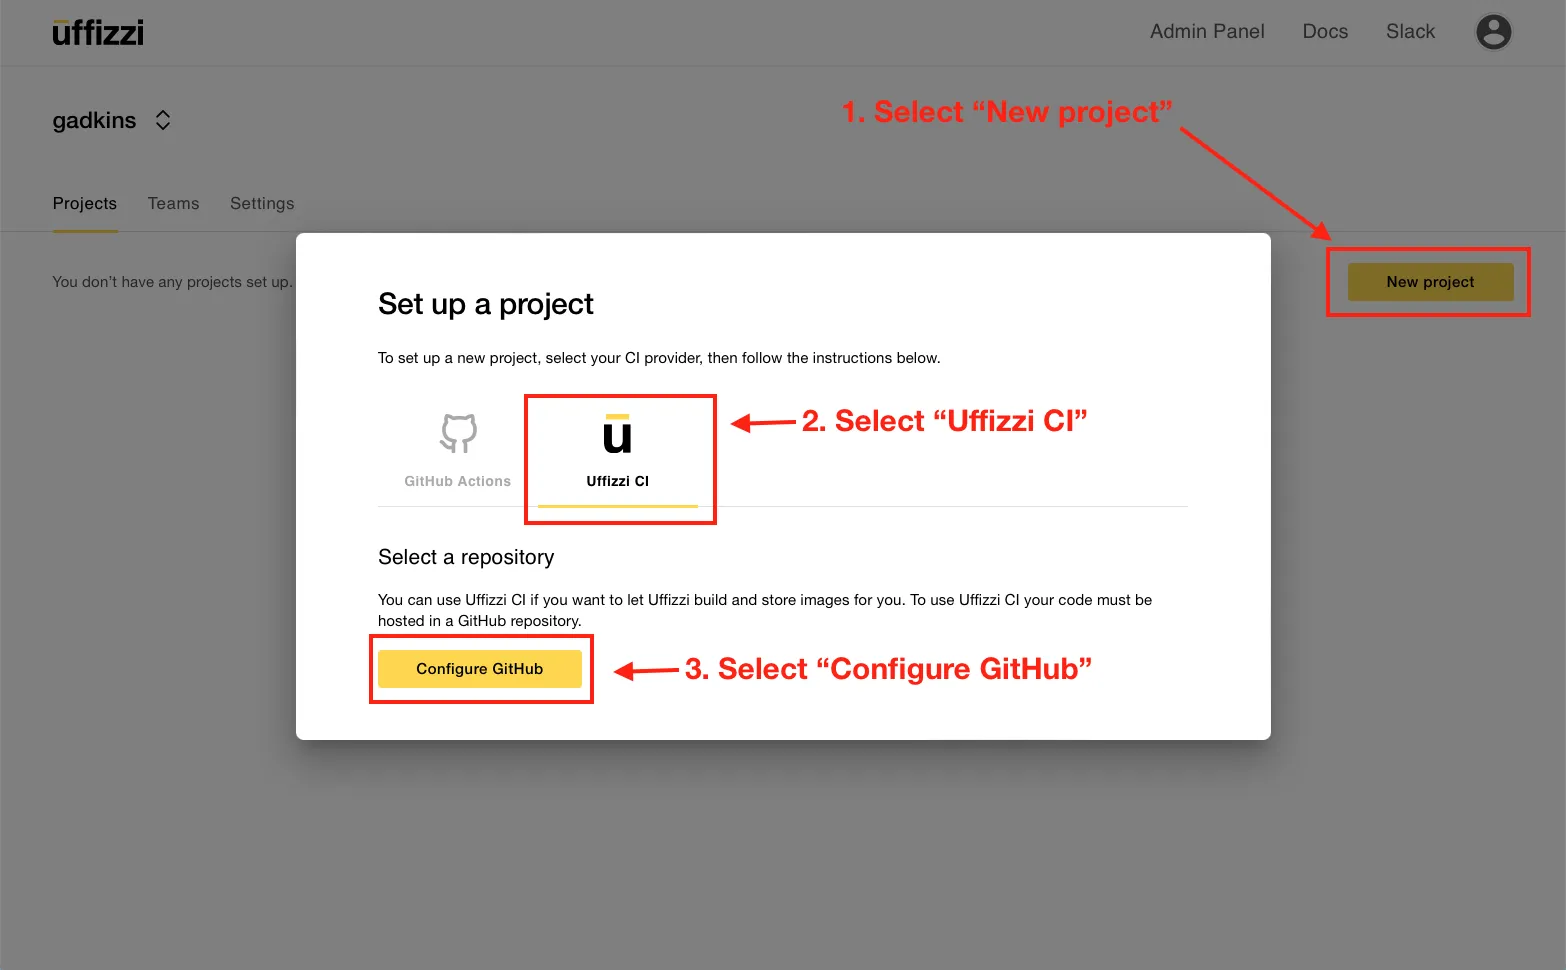
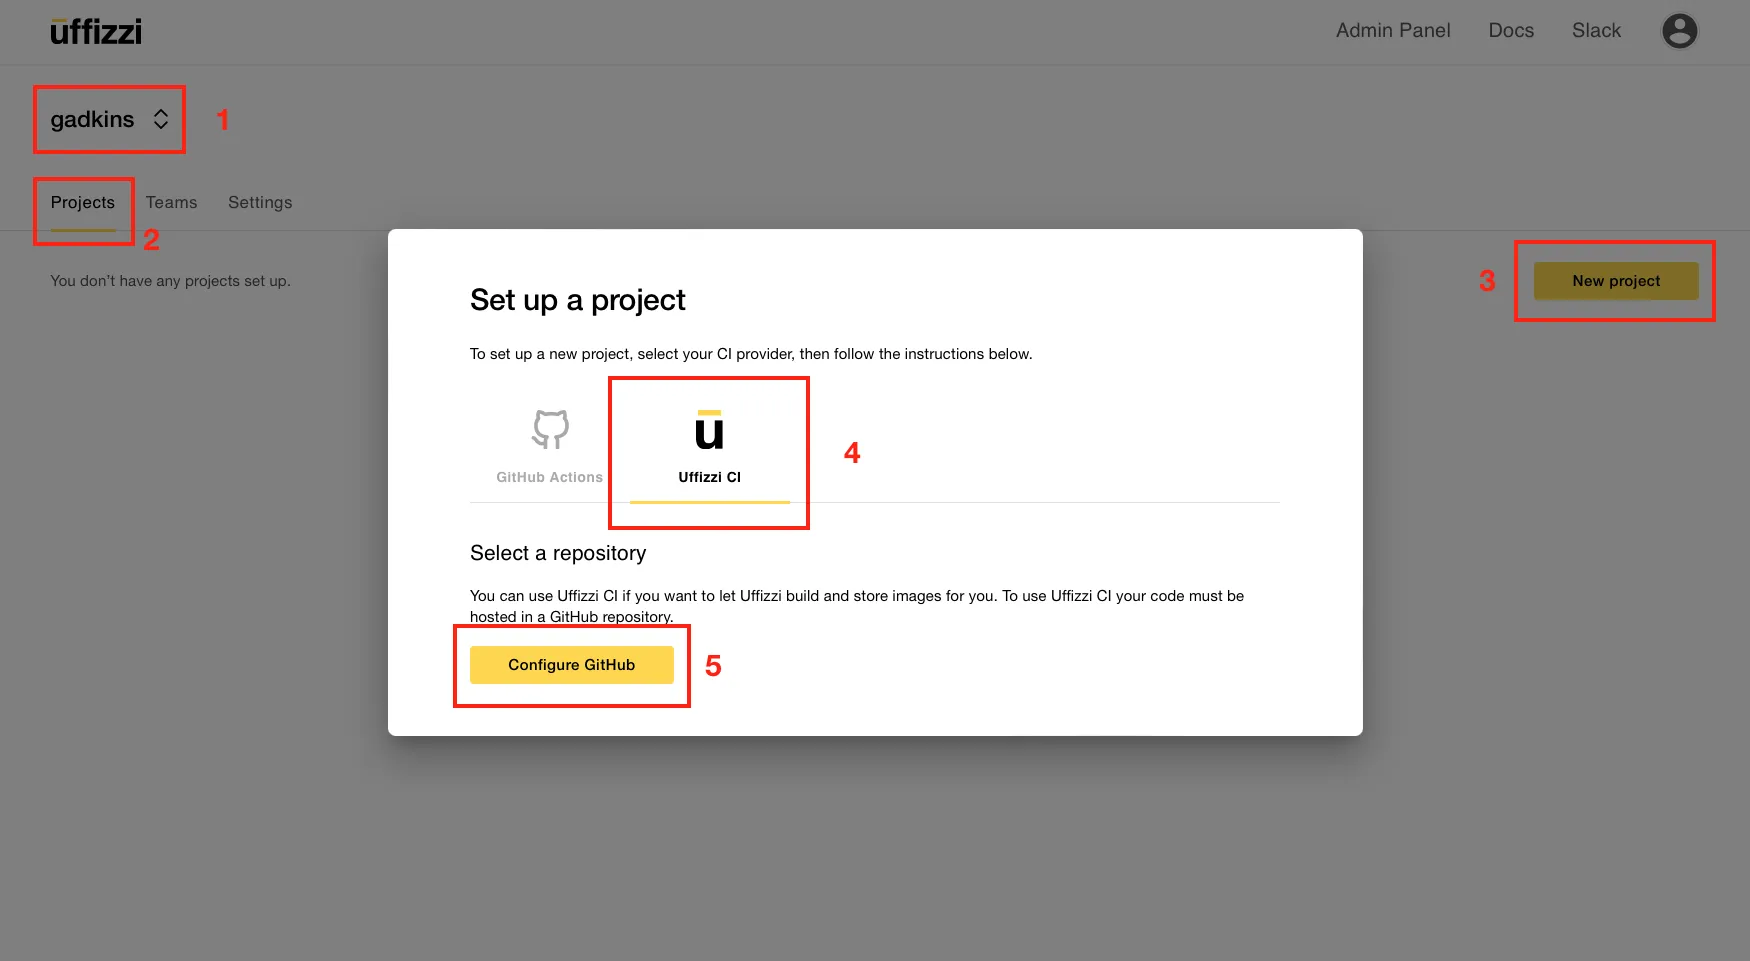
uffizzi ci behavior

diff --git a/docs/references/uffizzi-ci.md b/docs/references/uffizzi-ci.md
@@ -7,17 +7,90 @@ Uffizzi CI is an integrated build and deployment service provided by Uffizzi Clo
 Every time you push a new commit to your repository, Uffizzi CI receives a webhook and builds your application from source. This ensures that the latest changes are always included in your previews. To use Uffizzi CI, your code must be stored in a GitHub repository.
 
 ## Setting up Uffizzi CI
-To set up Uffizzi CI, login to the [Uffizzi Dashboard](https://app.uffizzi.com/sign_in), then navigate to **Project** > **Settings** > **General** and select **Configure** next to the GitHub option. You will be redirected to a GitHub login page to install and authorize the Uffizzi Cloud [GitHub App](https://docs.github.com/en/developers/apps/getting-started-with-apps/about-apps). If you have more than one GitHub account, be sure to install the GitHub App on the same account that you used to create your Uffizzi account. To install the Uffizzi Cloud GitHub App on an organizational account, you must have Owner permissions for your GitHub Organization.
+To set up Uffizzi CI, you'll first need to create a project in the Uffizzi Dashboard, then install and authorize the Uffizzi GitHub App. Once you've done that, you'll connect a [Compose file](../references/compose-spec.md) in your project settings. 
+
+### **1. Create a Uffizzi CI project**
+
+If you haven't already done so, create a Uffizzi CI project. Login to the [Uffizzi Dashboard](https://app.uffizzi.com/sign_in), then navigate to **Account** > **Projects**. Select **New project**  > **Uffizzi CI** > **Configure GitHub**  
+<details><summary><strong>Click to expand (Screenshots)</strong></summary>
+<img src="../../assets/images/new-uffizzi-ci-project.webp" width="600">
+</details>
+
+### **2. Install & Authorize the Uffizzi GitHub App**
+After selecting **Configure GitHub**, you will be redirected to a GitHub login page to install and authorize the Uffizzi Cloud [GitHub App](https://docs.github.com/en/developers/apps/getting-started-with-apps/about-apps). If you have more than one GitHub account, be sure to install the GitHub App on the same account that you used to create your Uffizzi account. To install the Uffizzi Cloud GitHub App on an organizational account, you must have Owner permissions for your GitHub Organization.
+
+<details><summary>Click to expand (Screenshots)</summary>
+<p>Install Uffizzi Cloud on your GitHub account</p>
+<img src="../../assets/images/install-github-app.webp" width="600">
+<img src="../../assets/images/authorize-uffizzi.webp" width="600">
+<hr>
+</details>
 
 Next, choose which repositories you wish to preview, then select **Install & Authorize**. Uffizzi requests only the minimum permissions it needs, which includes read access to your code and write access to pull request issues for posting comments. You can manage the GitHub App permissions from the **Developer Settings** page in GitHub.  
 
-Once the Uffizzi Cloud GitHub App is installed and has access to your repository, follow the [Quickstart for Uffizzi CI](../quickstart-uffizzi-ci.md) guide to complete the set up process.  
+### **3. Add a Compose file in project settings**
 
-&nbsp;  
-<img src="../../assets/images/authorize-uffizzi.webp" width="600">
+After installing and authorizing the GitHub App, you will be redirected back to the Uffizzi Dashboard. From there you can select a repository to complete project set up.  
+
+1. Select **Set up project** for your desired repository  
+2. Add your [`docker-compose.uffizzi.yml`](../references/compose-spec.md) file in **Project** > **Settings** > **Compose file**. Be sure to choose the branch that you merge <i>into</i>, i.e. your target base branch. For example, if your team opens pull requests against `main`, select this branch.
+3. Save and validate your Compose; resolve any errors  
+4. Check your configuration with a test deployment  
+
+<details><summary><strong>Click to expand (Screenshots)</strong></summary>
+<p>1. Select Set up project for the repository you just forked</p>
+<img src="../../assets/images/set-up-project.webp" width="600">
+<p>2. Add your `docker-compose.uffizzi.yml` file in Project > Settings > Compose. Be sure to choose the branch that you merge <i>into</i>, i.e. your target base branch.</p>
+<img src="../../assets/images/add-compose-in-settings.webp" width="600">
+<p>3. Save and validate your Compose; resolve any errors  </p>
+<img src="../../assets/images/resolve-compose-errors.webp" width="600">
+<p>4. Check your configuration with a test deployment </p>
+<img src="../../assets/images/compose-added.webp" width="600">
+</details>  
+
 
 ## How to use Uffizzi CI  
-Once everything is configured on both GitHub and Uffizzi, you don't need to do anything special to get Uffizzi CI working. Simply push commits and open pull requests as you normally do. Uffizzi CI will work in the background to build your application. Uffizzi will post a comment to your pull request issue with a link to your Preview Environment.
+Once everything is configured on both GitHub and Uffizzi, you don't need to do anything special to get Uffizzi CI working. Open pull requests as you normally do. Uffizzi CI will work in the background to build your application every time a PR is opened, closed, reopened, or synchronized (i.e. new commits). Uffizzi will post a comment to your pull request issue with a link to your Preview Environment. You can also login to the Uffizzi Dashboard to see a list of all your previews and your application logs.  
+
+<details><summary><strong>Click to expand (Screenshots)</strong></summary>
+<p>Open a pull request on GitHub:</p>
+<img src="../../assets/images/create-pr.webp" width="600">
+<hr>
+<p>Uffizzi CI will post a comment to your pull request issue:</p>
+<img src="../../assets/images/uffizzi-ci-comment.webp" width="600">
+<hr>
+<p>Log in to the Uffizzi Dashboard to see a list of Preview Environments and your application logs:</p>
+<img src="../../assets/images/deploying-preview.webp" width="600">
+</details>
+
+### When are previews triggered?
+!!! Important
+    **Uffizzi CI design is changing.** Our team is working on updating the logic for Uffizzi CI triggers. In the next release of Uffizzi CI, **any pull request** that is opened on your repository between **any two branches** will trigger a preview. Uffizzi CI will use whichever Compose file is in the head branch (i.e. the merging branch).
+
+Currently Uffizzi CI will only create previews for pull requests that target the branch you configure in the Uffizzi Dashboard (**Project** > **Settings** > **Compose file** > **Branch** > **Path to Compose**).  
+
+<details><summary><strong>Click to expand (Screenshots)</strong></summary>
+<p>Open a pull request on GitHub:</p>
+<img src="../../assets/images/compose-target-branch.webp" width="600">
+</details>
+
+For example, if you configure Uffizzi CI with a Compose file from your <code>main</code> branch, Uffizzi will apply the following logic:
+
+**Previews will be triggered for pull requests matching**: 
+
+- `main` ← `{topic_branch}`
+
+**Previews _will not_ be triggered for pull requests matching**:  
+
+- `{topic_branch}` ← `main` or  
+- `{topic_branch}` ← `{topic_branch}`
+
+Note that this design is changing with the next release of Uffizzi CI.  
+
+!!! Important
+    If the Compose file in a base and head branches do not match for a given pull request, Uffizzi will use the Compose file in the head branch (i.e. the merging branch) as the preview configuration.  
+
+    For example, if a pull request is opened for `develop` ← `my-feature` and the Compose files do not match, Uffizzi will use the Compose file from `my-feature`,
 
 &nbsp;  
 &nbsp;  
